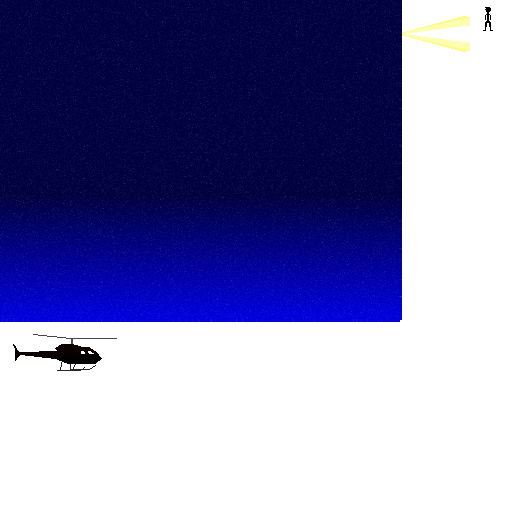
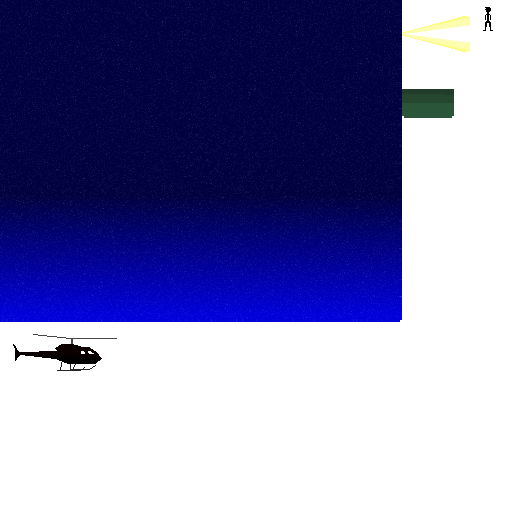
added floor tile 01 graphics and a template to instantiate floor tiles with physics body, modified VampireScript to apply a force to the right to move the vampire

Changed region(s): [[0.7812, 0.1562, 0.9062, 0.25]]

diff --git a/vampirerunner-core/src/main/java/com/gemserk/games/vampirerunner/gamestates/PlayGameState.java b/vampirerunner-core/src/main/java/com/gemserk/games/vampirerunner/gamestates/PlayGameState.java
@@ -18,12 +18,14 @@ import com.gemserk.commons.artemis.templates.EntityFactoryImpl;
 import com.gemserk.commons.artemis.templates.EntityTemplate;
 import com.gemserk.commons.gdx.GameStateImpl;
 import com.gemserk.commons.gdx.box2d.BodyBuilder;
+import com.gemserk.commons.gdx.box2d.Box2DCustomDebugRenderer;
 import com.gemserk.commons.gdx.camera.Libgdx2dCamera;
 import com.gemserk.commons.gdx.camera.Libgdx2dCameraTransformImpl;
 import com.gemserk.commons.gdx.games.SpatialImpl;
 import com.gemserk.componentsengine.utils.ParametersWrapper;
 import com.gemserk.games.vampirerunner.Game;
 import com.gemserk.games.vampirerunner.render.Layers;
+import com.gemserk.games.vampirerunner.templates.FloorTileTemplate;
 import com.gemserk.games.vampirerunner.templates.StaticSpriteEntityTemplate;
 import com.gemserk.games.vampirerunner.templates.VampireTemplate;
 import com.gemserk.resources.ResourceManager;
@@ -37,8 +39,10 @@ public class PlayGameState extends GameStateImpl {
 
 	private EntityTemplate staticSpriteTemplate;
 	private EntityTemplate vampireTemplate;
+	private EntityTemplate floorTileTemplate;
 
 	private EntityFactory entityFactory;
+	private Box2DCustomDebugRenderer box2dCustomDebugRenderer;
 
 	public void setResourceManager(ResourceManager<String> resourceManager) {
 		this.resourceManager = resourceManager;
@@ -73,7 +77,6 @@ public class PlayGameState extends GameStateImpl {
 
 		worldWrapper.addUpdateSystem(new ScriptSystem());
 		worldWrapper.addUpdateSystem(new TagSystem());
-		// worldWrapper.addUpdateSystem(new MovementSystem());
 		worldWrapper.addUpdateSystem(new PhysicsSystem(physicsWorld));
 
 		worldWrapper.addRenderSystem(new SpriteUpdateSystem());
@@ -87,6 +90,7 @@ public class PlayGameState extends GameStateImpl {
 			// initialize templates
 			staticSpriteTemplate = new StaticSpriteEntityTemplate(resourceManager);
 			vampireTemplate = new VampireTemplate(resourceManager, bodyBuilder);
+			floorTileTemplate = new FloorTileTemplate(resourceManager, bodyBuilder);
 		}
 
 		entityFactory.instantiate(staticSpriteTemplate, new ParametersWrapper() //
@@ -96,20 +100,36 @@ public class PlayGameState extends GameStateImpl {
 				);
 
 		entityFactory.instantiate(vampireTemplate, new ParametersWrapper() //
-				.put("spatial", new SpatialImpl(1f, 5f, 1f, 1f, 0f)) //
+				.put("spatial", new SpatialImpl(1f, 2f, 1f, 1f, 0f)) //
 				);
+
+		float x = 0f;
+		float y = 1f;
+
+		for (int i = 0; i < 50; i++) {
+			entityFactory.instantiate(floorTileTemplate, new ParametersWrapper() //
+					.put("spatial", new SpatialImpl(x, y, 2f, 2f, 0f)) //
+					);
+			x += 2f;
+		}
+
+		box2dCustomDebugRenderer = new Box2DCustomDebugRenderer(worldCamera, physicsWorld);
 	}
 
 	@Override
 	public void render() {
 		Gdx.graphics.getGL10().glClear(GL10.GL_COLOR_BUFFER_BIT);
 		worldWrapper.render();
+
+		if (Game.isShowBox2dDebug())
+			box2dCustomDebugRenderer.render();
 	}
 
 	@Override
 	public void update() {
 		Synchronizers.synchronize(getDelta());
 		worldWrapper.update(getDeltaInMs());
+
 	}
 
 	@Override

diff --git a/vampirerunner-core/src/main/java/com/gemserk/games/vampirerunner/templates/FloorTileTemplate.java b/vampirerunner-core/src/main/java/com/gemserk/games/vampirerunner/templates/FloorTileTemplate.java
@@ -21,12 +21,12 @@ import com.gemserk.games.vampirerunner.Tags;
 import com.gemserk.games.vampirerunner.scripts.VampireScript;
 import com.gemserk.resources.ResourceManager;
 
-public class VampireTemplate extends EntityTemplateImpl {
+public class FloorTileTemplate extends EntityTemplateImpl {
 
 	private final ResourceManager<String> resourceManager;
 	private final BodyBuilder bodyBuilder;
 
-	public VampireTemplate(ResourceManager<String> resourceManager, BodyBuilder bodyBuilder) {
+	public FloorTileTemplate(ResourceManager<String> resourceManager, BodyBuilder bodyBuilder) {
 		this.resourceManager = resourceManager;
 		this.bodyBuilder = bodyBuilder;
 	}
@@ -34,29 +34,26 @@ public class VampireTemplate extends EntityTemplateImpl {
 	@Override
 	public void apply(Entity entity) {
 		Spatial spatial = parameters.get("spatial");
-
-		Sprite sprite = resourceManager.getResourceValue("VampireSprite");
+		
+		Sprite sprite = resourceManager.getResourceValue("FloorTile01Sprite");
 
 		entity.addComponent(new TagComponent(Tags.Vampire));
-		// entity.addComponent(new SpatialComponent(spatial));
 		entity.addComponent(new SpriteComponent(sprite, new Vector2(0.5f, 0.5f), Color.WHITE));
-		entity.addComponent(new RenderableComponent(1));
+		entity.addComponent(new RenderableComponent(2));
 		entity.addComponent(new ScriptComponent(new VampireScript()));
 
 		Body body = bodyBuilder //
-				.fixedRotation() //
 				.userData(entity) //
 				.position(spatial.getX(), spatial.getY()) //
-				.type(BodyType.DynamicBody) //
+				.type(BodyType.StaticBody) //
 				.fixture(bodyBuilder.fixtureDefBuilder() //
-//						.boxShape(0.1f, 0.4f) //
-						.circleShape(0.4f) //
+						.boxShape(1f * spatial.getWidth() * 0.5f, 0.15f * spatial.getHeight() * 0.5f) //
 						.density(1f) //
 						.build()) //
 				.build();
 
 		entity.addComponent(new PhysicsComponent(new PhysicsImpl(body)));
-		entity.addComponent(new SpatialComponent(new SpatialPhysicsImpl(body, 1f, 1f)));
+		entity.addComponent(new SpatialComponent(new SpatialPhysicsImpl(body, spatial)));
 	}
 
 }

diff --git a/vampirerunner-core/src/main/java/com/gemserk/games/vampirerunner/scripts/VampireScript.java b/vampirerunner-core/src/main/java/com/gemserk/games/vampirerunner/scripts/VampireScript.java
@@ -2,21 +2,41 @@ package com.gemserk.games.vampirerunner.scripts;
 
 import com.artemis.Entity;
 import com.artemis.World;
+import com.badlogic.gdx.math.Vector2;
+import com.badlogic.gdx.physics.box2d.Body;
+import com.gemserk.commons.artemis.components.PhysicsComponent;
 import com.gemserk.commons.artemis.components.SpatialComponent;
 import com.gemserk.commons.artemis.scripts.ScriptJavaImpl;
+import com.gemserk.commons.gdx.GlobalTime;
+import com.gemserk.commons.gdx.games.Physics;
 
 public class VampireScript extends ScriptJavaImpl {
 
 	private static final Class<SpatialComponent> spatialComponentClass = SpatialComponent.class;
+	private static final Class<PhysicsComponent> physicsComponentClass = PhysicsComponent.class;
+	
+	private float maxLinearSpeed = 5f;
 
 	@Override
 	public void update(World world, Entity e) {
 
-		// SpatialComponent spatialComponent = e.getComponent(spatialComponentClass);
-		// Spatial spatial = spatialComponent.getSpatial();
-		// spatial.setPosition(spatial.getX(), 1f);
-
 		// get controller and determine if the vampire should jump or not...
+		
+		PhysicsComponent physicsComponent = e.getComponent(physicsComponentClass);
+		Physics physics = physicsComponent.getPhysics();
+		
+		Body body = physics.getBody();
+		
+		body.applyForce(new Vector2(50f, 0f).mul(GlobalTime.getDelta()), body.getPosition());
+		
+		Vector2 linearVelocity = body.getLinearVelocity();
+
+		float speed = linearVelocity.len();
+
+		if (speed > maxLinearSpeed) {
+			linearVelocity.mul(maxLinearSpeed / speed);
+			body.setLinearVelocity(linearVelocity);
+		}
 
 	}
 

diff --git a/vampirerunner-core/src/main/java/com/gemserk/games/vampirerunner/Game.java b/vampirerunner-core/src/main/java/com/gemserk/games/vampirerunner/Game.java
@@ -32,6 +32,7 @@ import com.gemserk.util.ScreenshotSaver;
 public class Game extends com.gemserk.commons.gdx.Game {
 
 	private static boolean showFps = true;
+	private static boolean showBox2dDebug = true;
 
 	public static void setShowFps(boolean showFps) {
 		Game.showFps = showFps;
@@ -39,6 +40,14 @@ public class Game extends com.gemserk.commons.gdx.Game {
 
 	public static boolean isShowFps() {
 		return showFps;
+	}
+	
+	public static boolean isShowBox2dDebug() {
+		return showBox2dDebug;
+	}
+	
+	public static void setShowBox2dDebug(boolean showBox2dDebug) {
+		Game.showBox2dDebug = showBox2dDebug;
 	}
 
 	private Screen splashScreen;
@@ -117,6 +126,7 @@ public class Game extends com.gemserk.commons.gdx.Game {
 		new LibgdxInputMappingBuilder<String>(inputDevicesMonitor, Gdx.input) {
 			{
 				monitorKey("grabScreenshot", Keys.NUM_9);
+				monitorKey("toggleBox2dDebug", Keys.NUM_8);
 			}
 		};
 
@@ -143,6 +153,10 @@ public class Game extends com.gemserk.commons.gdx.Game {
 			} catch (IOException e) {
 				Gdx.app.log("SuperFlyingThing", "Can't save screenshot");
 			}
+		}
+		
+		if (inputDevicesMonitor.getButton("toggleBox2dDebug").isReleased()) {
+			setShowBox2dDebug(!isShowBox2dDebug());
 		}
 
 		eventManager.process();

diff --git a/vampirerunner-core/src/main/java/com/gemserk/games/vampirerunner/resources/GameResources.java b/vampirerunner-core/src/main/java/com/gemserk/games/vampirerunner/resources/GameResources.java
@@ -28,6 +28,7 @@ public class GameResources extends LibgdxResourceBuilder {
 		textureAtlas("TextureAtlas", "data/images/packs/pack");
 		spriteAtlas("BackgroundSprite", "TextureAtlas", "background");
 		spriteAtlas("VampireSprite", "TextureAtlas", "vampire");
+		spriteAtlas("FloorTile01Sprite", "TextureAtlas", "floor-tile-01");
 	}
 
 }
